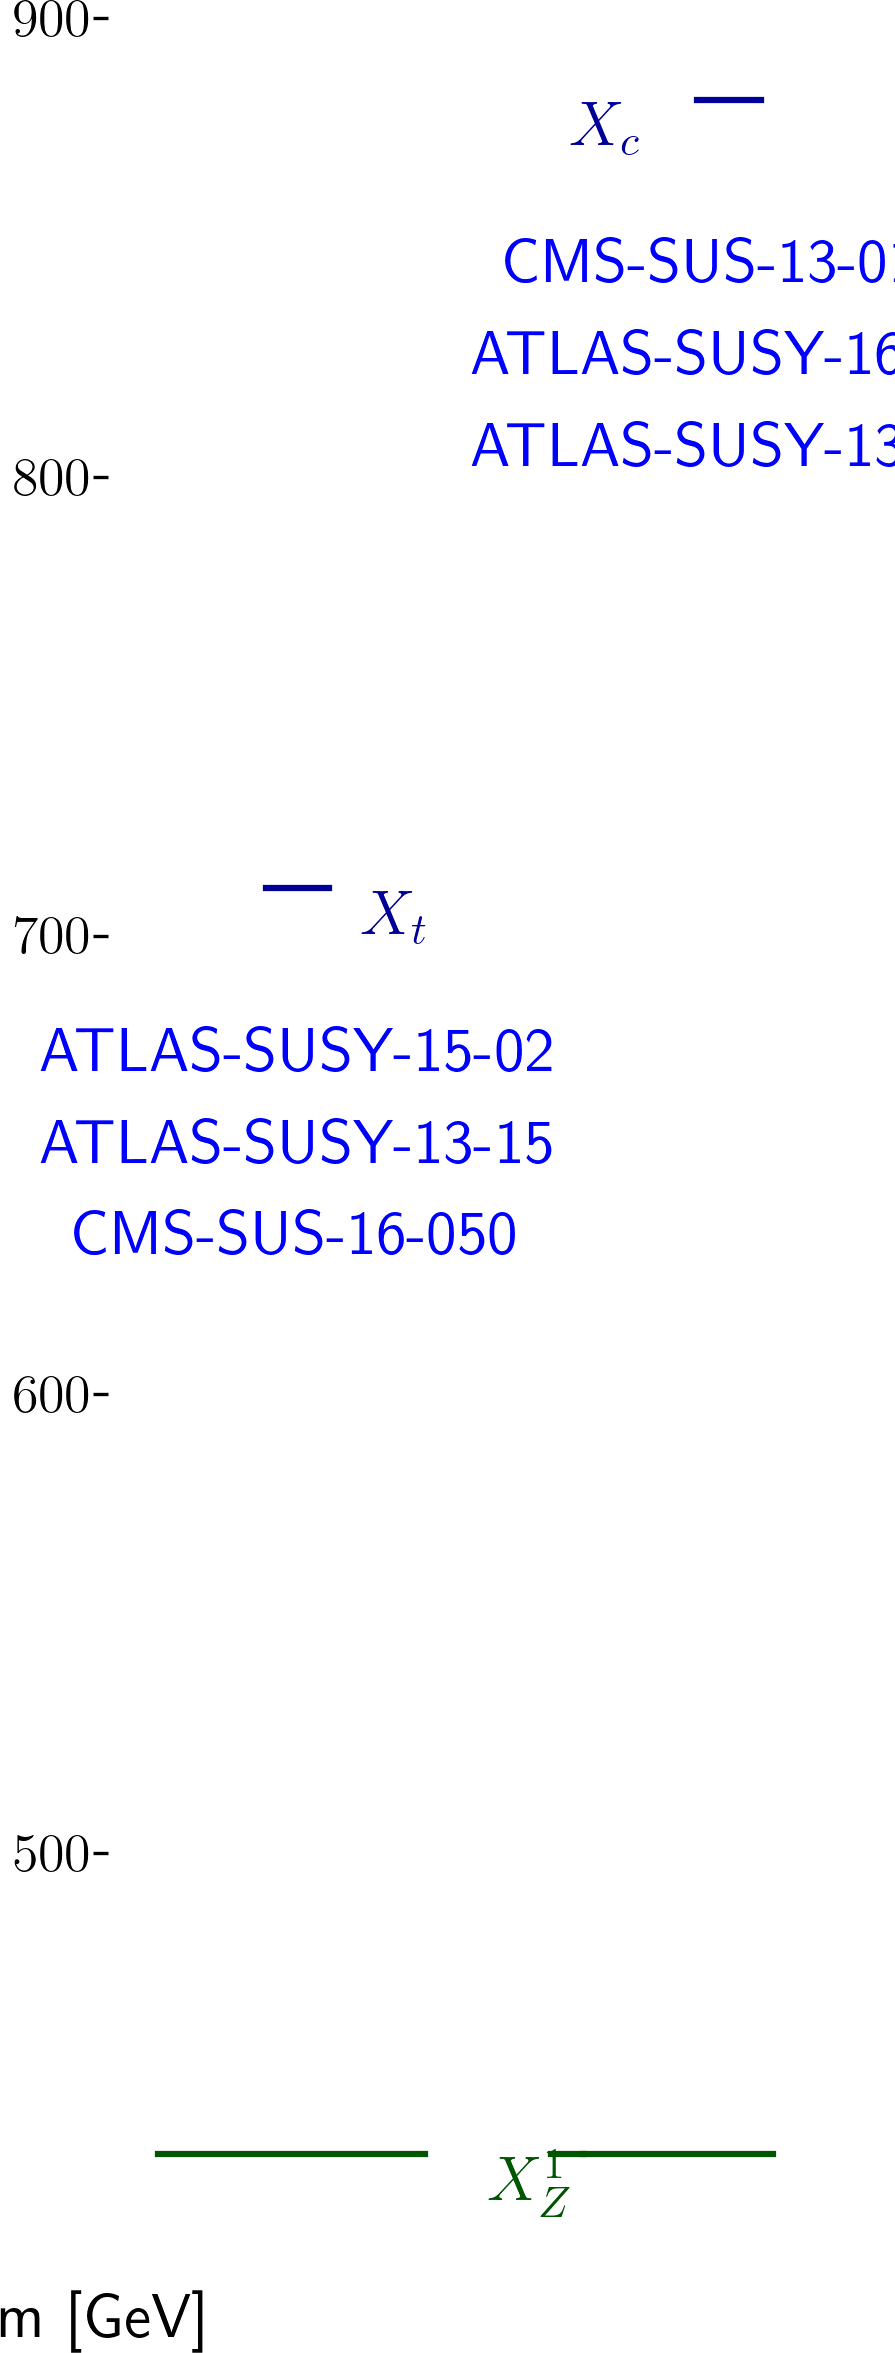
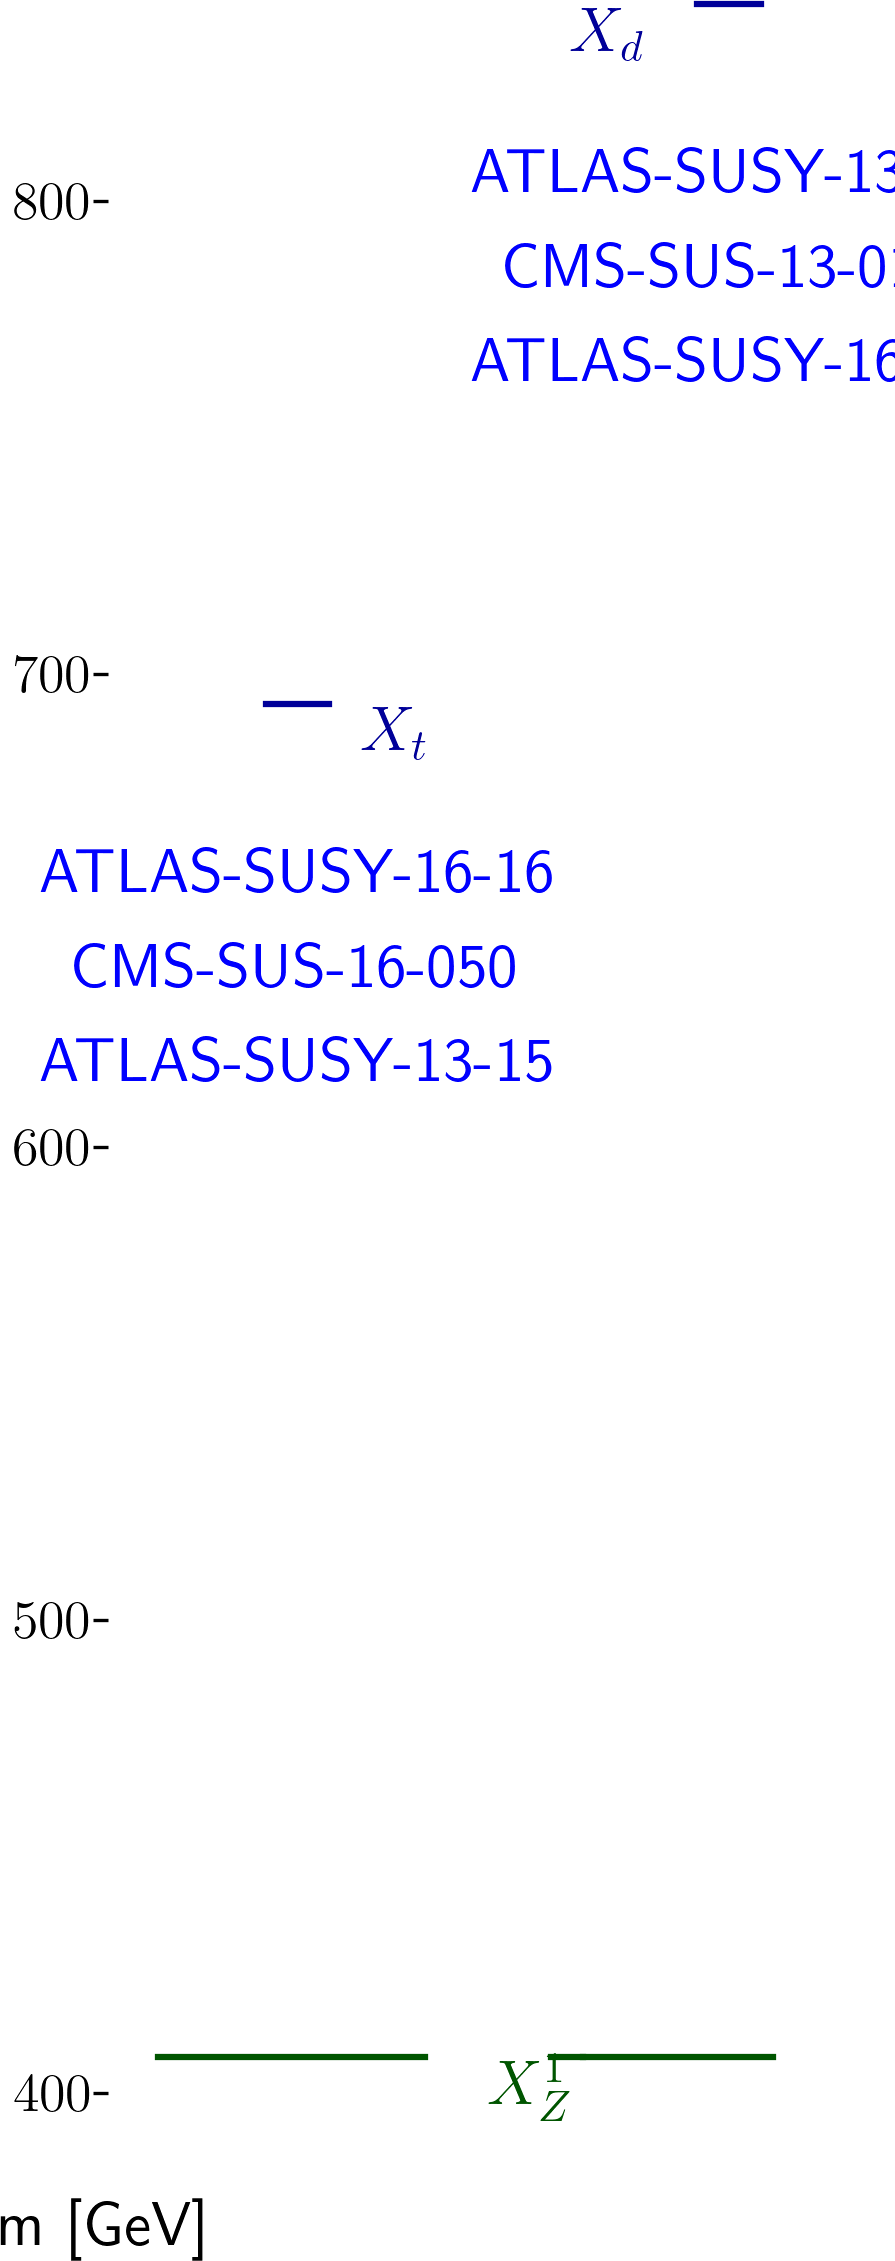
automated update by plotHiscore.py

diff --git a/protomodels/latest/index.html b/protomodels/latest/index.html
@@ -1,31 +1,31 @@
 <html>
 <body>
 <center>
-<table><td><h1>Current best protomodel: K=8.77</h1><td><img height=60px src=https://smodels.github.io/pics/banner.png></table>
+<table><td><h1>Current best protomodel: K=8.47</h1><td><img height=60px src=https://smodels.github.io/pics/banner.png></table>
 </center>
-<b><a href=./hiscore.slha>ProtoModel</a> <a href=./pmodel.py>(dict)</a> produced with <a href=https://smodels.github.io/docs/Validation123>database v1.2.3</a>, combination strategy <a href=./matrix_aggressive.png>aggressive</a> in walker 41 step 993.</b> K plots for: <a href=./M1000022.png?5253552>X<sub>Z</sub><sup>1</sup></a>, <a href=./M1000004.png?5253552>X<sub>c</sub></a>, <a href=./M1000006.png?5253552>X<sub>t</sub></a>. HPD plots for: <a href=./llhd1000004.png?5253552>X<sub>c</sub></a>, <a href=./llhd1000006.png?5253552>X<sub>t</sub></a>. SSM plots for: <a href=./ssm_-1000006_1000006.png?5253552>(x&#772;<sub>t</sub>,X<sub>t</sub>)</a><br>
+<b><a href=./hiscore.slha>ProtoModel</a> <a href=./pmodel.py>(dict)</a> produced with <a href=https://smodels.github.io/docs/Validation123>database v1.2.3</a>, combination strategy <a href=./matrix_aggressive.png>aggressive</a> in walker 3 step 355.</b> K plots for: <a href=./M1000022.png?5254000>X<sub>Z</sub><sup>1</sup></a>, <a href=./M1000001.png?5254000>X<sub>d</sub></a>, <a href=./M1000006.png?5254000>X<sub>t</sub></a>. HPD plots for: <a href=./llhd1000001.png?5254000>X<sub>d</sub></a>, <a href=./llhd1000006.png?5254000>X<sub>t</sub></a>. SSM plots for: <a href=./ssm_-1000006_1000006.png?5254000>(x&#772;<sub>t</sub>,X<sub>t</sub>)</a><br>
 <table width=80%>
 <tr><td>
-<br><b>36 predictions available. Highest r values are:</b><br><ul>
+<br><b>38 predictions available. Highest r values are:</b><br><ul>
 <li><a href=http://cms-results.web.cern.ch/cms-results/public-results/publications/SUS-19-006/index.html>CMS-SUS-19-006</a>:T2tt r=1.30, r<sub>exp</sub>=0.84<br>
-<li><a href=http://cms-results.web.cern.ch/cms-results/public-results/publications/SUS-16-033/index.html>CMS-SUS-16-033</a>:T2 r=1.14, r<sub>exp</sub>=0.77<br>
-<li><a href=http://cms-results.web.cern.ch/cms-results/public-results/publications/SUS-19-006/index.html>CMS-SUS-19-006</a>:T2 r=1.13, r<sub>exp</sub>=1.01<br>
-<li><a href=http://cms-results.web.cern.ch/cms-results/public-results/publications/SUS-16-036/index.html>CMS-SUS-16-036</a>:T2 r=0.90, r<sub>exp</sub>=0.68<br>
-<li><a href=http://cms-results.web.cern.ch/cms-results/public-results/publications/SUS-16-049/index.html>CMS-SUS-16-049</a>:T2tt r=0.79, r<sub>exp</sub>=0.67<br>
+<li><a href=http://cms-results.web.cern.ch/cms-results/public-results/publications/SUS-16-033/index.html>CMS-SUS-16-033</a>:T2 r=1.26, r<sub>exp</sub>=0.84<br>
+<li><a href=http://cms-results.web.cern.ch/cms-results/public-results/publications/SUS-19-006/index.html>CMS-SUS-19-006</a>:T2 r=1.24, r<sub>exp</sub>=1.11<br>
+<li><a href=http://cms-results.web.cern.ch/cms-results/public-results/publications/SUS-16-036/index.html>CMS-SUS-16-036</a>:T2 r=0.97, r<sub>exp</sub>=0.72<br>
+<li><a href=http://cms-results.web.cern.ch/cms-results/public-results/publications/SUS-16-049/index.html>CMS-SUS-16-049</a>:T2tt r=0.78, r<sub>exp</sub>=0.69<br>
 </ul>
 <td><br><b>Contributions per analysis:</b><br>
 <ul>
-<li> <a href=https://atlas.web.cern.ch/Atlas/GROUPS/PHYSICS/PAPERS/SUSY-2013-02/>ATLAS-SUSY-2013-02</a>: 29%
-<li> <a href=https://atlas.web.cern.ch/Atlas/GROUPS/PHYSICS/PAPERS/SUSY-2013-15/>ATLAS-SUSY-2013-15</a>: 27%
-<li> <a href=https://twiki.cern.ch/twiki/bin/view/CMSPublic/PhysicsResultsSUS13012>CMS-SUS-13-012</a>: 21%
-<li> <a href=http://atlas.web.cern.ch/Atlas/GROUPS/PHYSICS/PAPERS/SUSY-2015-02/>ATLAS-SUSY-2015-02</a>: 13%
-<li> <a href=https://atlas.web.cern.ch/Atlas/GROUPS/PHYSICS/PAPERS/SUSY-2016-07/>ATLAS-SUSY-2016-07</a>: 12%
-<li> <a href=http://cms-results.web.cern.ch/cms-results/public-results/publications/SUS-16-050/index.html>CMS-SUS-16-050</a>: -2%
-<td><img width=600px src=./texdoc.png?1598253552>
-<br><font size=-1>Last updated: Mon Aug 24 09:19:12 2020</font>
+<li> <a href=https://atlas.web.cern.ch/Atlas/GROUPS/PHYSICS/PAPERS/SUSY-2013-02/>ATLAS-SUSY-2013-02</a>: 57%
+<li> <a href=https://atlas.web.cern.ch/Atlas/GROUPS/PHYSICS/PAPERS/SUSY-2013-15/>ATLAS-SUSY-2013-15</a>: 50%
+<li> <a href=https://atlas.web.cern.ch/Atlas/GROUPS/PHYSICS/PAPERS/SUSY-2016-16/>ATLAS-SUSY-2016-16</a>: 33%
+<li> <a href=https://twiki.cern.ch/twiki/bin/view/CMSPublic/PhysicsResultsSUS13012>CMS-SUS-13-012</a>: 22%
+<li> <a href=https://atlas.web.cern.ch/Atlas/GROUPS/PHYSICS/PAPERS/SUSY-2016-07/>ATLAS-SUSY-2016-07</a>: -18%
+<li> <a href=http://cms-results.web.cern.ch/cms-results/public-results/publications/SUS-16-050/index.html>CMS-SUS-16-050</a>: -43%
+<td><img width=600px src=./texdoc.png?1598254000>
+<br><font size=-1>Last updated: Mon Aug 24 09:26:40 2020</font>
 </table><table style="width:80%">
-<td width=45%><img height=580px src=./ruler.png?1598253552><td width=55%><img height=380px src=./decays.png?1598253552>
-<font size=-3><iframe type="text/html" height="220px" width="100%s" frameborder="0" src="./rawnumbers.html?1598253552"></iframe></font>
+<td width=45%><img height=580px src=./ruler.png?1598254000><td width=55%><img height=380px src=./decays.png?1598254000>
+<font size=-3><iframe type="text/html" height="220px" width="100%s" frameborder="0" src="./rawnumbers.html?1598254000"></iframe></font>
 </table>
 </body>
 </html>

diff --git a/protomodels/latest/rawnumbers.html b/protomodels/latest/rawnumbers.html
@@ -1,10 +1,10 @@
 <table>
 <tr><th>Analysis Name</th><th>Type</th><th>Dataset</th><th>Observed</th><th>Expected</th><th>Approx &sigma;</th><th>Particles</th>
 </tr>
-<tr><td><a href=http://atlas.web.cern.ch/Atlas/GROUPS/PHYSICS/PAPERS/SUSY-2015-02/>ATLAS-SUSY-2015-02</a></td><td>em</td> <td>SR1</td><td>12</td><td>5.5 +/- 0.72</td><td style="text-align:right">2.6 &sigma;</td><td style="text-align:right">X<sub>t</sub></td></tr>
-<tr><td><a href=https://atlas.web.cern.ch/Atlas/GROUPS/PHYSICS/PAPERS/SUSY-2016-07/>ATLAS-SUSY-2016-07</a></td><td>em</td> <td>2j_Meff_1200</td><td>611</td><td>526 +/- 31</td><td style="text-align:right">2.2 &sigma;</td><td style="text-align:right">X<sub>c</sub></td></tr>
-<tr><td><a href=http://cms-results.web.cern.ch/cms-results/public-results/publications/SUS-16-050/index.html>CMS-SUS-16-050</a></td><td>ul</td> <td>-</td><td> 179.1 fb </td><td> 81.4 fb</td><td style="text-align:right">2.4 &sigma;</td><td style="text-align:right">X<sub>t</sub></td></tr>
-<tr><td><a href=https://atlas.web.cern.ch/Atlas/GROUPS/PHYSICS/PAPERS/SUSY-2013-02/>ATLAS-SUSY-2013-02</a></td><td>em</td> <td>SR6jtp</td><td>6</td><td>4.9 +/- 1.6</td><td style="text-align:right">0.4 &sigma;</td><td style="text-align:right">X<sub>c</sub></td></tr>
+<tr><td><a href=https://atlas.web.cern.ch/Atlas/GROUPS/PHYSICS/PAPERS/SUSY-2016-07/>ATLAS-SUSY-2016-07</a></td><td>em</td> <td>2j_Meff_1200</td><td>611</td><td>526 +/- 31</td><td style="text-align:right">2.2 &sigma;</td><td style="text-align:right">X<sub>d</sub></td></tr>
+<tr><td><a href=https://atlas.web.cern.ch/Atlas/GROUPS/PHYSICS/PAPERS/SUSY-2016-16/>ATLAS-SUSY-2016-16</a></td><td>em</td> <td>tN_med</td><td>50</td><td>36.3 +/- 6.6</td><td style="text-align:right">1.5 &sigma;</td><td style="text-align:right">X<sub>t</sub></td></tr>
+<tr><td><a href=http://cms-results.web.cern.ch/cms-results/public-results/publications/SUS-16-050/index.html>CMS-SUS-16-050</a></td><td>ul</td> <td>-</td><td> 155.7 fb </td><td> 73.9 fb</td><td style="text-align:right">2.2 &sigma;</td><td style="text-align:right">X<sub>t</sub></td></tr>
+<tr><td><a href=https://atlas.web.cern.ch/Atlas/GROUPS/PHYSICS/PAPERS/SUSY-2013-02/>ATLAS-SUSY-2013-02</a></td><td>em</td> <td>SR6jtp</td><td>6</td><td>4.9 +/- 1.6</td><td style="text-align:right">0.4 &sigma;</td><td style="text-align:right">X<sub>d</sub></td></tr>
 <tr><td><a href=https://atlas.web.cern.ch/Atlas/GROUPS/PHYSICS/PAPERS/SUSY-2013-15/>ATLAS-SUSY-2013-15</a></td><td>em</td> <td>tNboost</td><td>5</td><td>3.3 +/- 0.7</td><td style="text-align:right">0.9 &sigma;</td><td style="text-align:right">X<sub>t</sub></td></tr>
-<tr><td><a href=https://twiki.cern.ch/twiki/bin/view/CMSPublic/PhysicsResultsSUS13012>CMS-SUS-13-012</a></td><td>ul</td> <td>-</td><td> 38.0 fb </td><td> 23.0 fb</td><td style="text-align:right">1.3 &sigma;</td><td style="text-align:right">X<sub>c</sub></td></tr>
+<tr><td><a href=https://twiki.cern.ch/twiki/bin/view/CMSPublic/PhysicsResultsSUS13012>CMS-SUS-13-012</a></td><td>ul</td> <td>-</td><td> 44.1 fb </td><td> 26.4 fb</td><td style="text-align:right">1.3 &sigma;</td><td style="text-align:right">X<sub>d</sub></td></tr>
 </table>

diff --git a/protomodels/latest/pmodel.py b/protomodels/latest/pmodel.py
@@ -1,1 +1,1 @@
-{'masses': {1000022: 424.318, 1000006: 700.346, 1000004: 872.229}, 'ssmultipliers': {(1000022, 1000022): 0.226, (1000006, 1000006): 0.681, (-1000006, 1000006): 0.681, (-1000006, -1000006): 0.681, (1000006, 1000022): 0.714, (-1000006, 1000022): 0.714, (1000004, 1000004): 1.486, (-1000004, 1000004): 1.486, (-1000004, -1000004): 1.486, (1000004, 1000022): 1.486, (-1000004, 1000022): 1.486, (1000004, 1000006): 1.095, (-1000004, 1000006): 1.163, (-1000006, 1000004): 1.095, (-1000006, -1000004): 1.095}, 'decays': {1000022: {}, 1000006: {1000022: 1.0}, 1000004: {1000022: 1.0}}, 'timestamp': 'Mon Aug 24 09:18:59 2020', 'Z': 3.507, 'K': 8.772, 'step': 993, 'codever': '1.0', 'dbver': '1.2.3'}
+{'masses': {1000022: 397.69, 1000006: 683.746, 1000001: 831.594}, 'ssmultipliers': {(1000022, 1000022): 0.0, (1000006, 1000006): 1.147, (-1000006, 1000006): 0.528, (-1000006, -1000006): 0.528, (1000006, 1000022): 0.528, (-1000006, 1000022): 0.528, (1000001, 1000001): 1.302, (-1000001, 1000001): 1.302, (-1000001, -1000001): 1.302, (1000001, 1000022): 1.302, (-1000001, 1000022): 1.302, (1000001, 1000006): 1.116, (-1000001, 1000006): 1.116, (-1000006, 1000001): 1.116, (-1000006, -1000001): 1.116}, 'decays': {1000022: {}, 1000006: {1000022: 1.0}, 1000001: {1000022: 1.0}}, 'timestamp': 'Mon Aug 24 09:26:28 2020', 'Z': 3.468, 'K': 8.474, 'step': 355, 'codever': '1.0', 'dbver': '1.2.3'}
